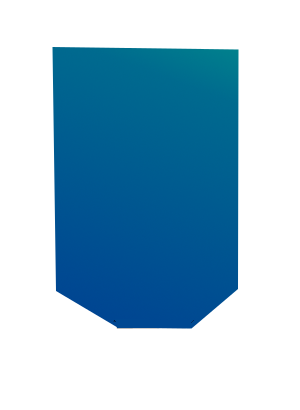
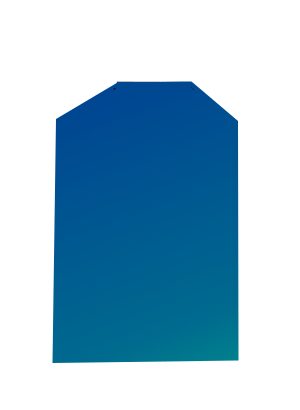
Water flow

Changed region(s): [[0.15, 0.5268, 0.81, 0.9073], [0.15, 0.1171, 0.81, 0.4683]]

diff --git a/src/main.rs b/src/main.rs
@@ -1,4 +1,4 @@
-use raylib::prelude::*;
+use raylib::{ffi::IsKeyDown, prelude::*};
 
 fn get_texture(src: &str, rl: &mut RaylibHandle, thread: &RaylibThread) -> Texture2D {
     let img = Image::load_image(src).expect("Could not load image");
@@ -20,32 +20,37 @@ fn main() {
     let bottle_filled = get_texture("assets/bottle_fill.png", &mut rl, &thread);
 
     let bottle_pos = Vector2::new(75.0, 125.0);
-    let water_consumed = 100.0;
+
+    let mut water_consumed = 100.0;
 
     while !rl.window_should_close() {
         let mut d = rl.begin_drawing(&thread);
 
+        unsafe {
+            if IsKeyDown(KeyboardKey::KEY_DOWN as i32) {
+                water_consumed -= 0.05;
+            } else if IsKeyDown(KeyboardKey::KEY_UP as i32) {
+                water_consumed += 0.05;
+            }
+        }
         d.clear_background(Color::BLACK);
         d.draw_texture(&bg, 0, 0, Color::WHITE);
 
         d.draw_texture_v(&bottle, bottle_pos, Color::WHITE);
-        d.draw_texture_pro(
+
+        d.draw_texture_rec(
             &bottle_filled,
             Rectangle::new(
                 0.0,
-                0.0,
-                bottle_filled.width as f32,
                 bottle_filled.height as f32 - water_consumed,
-            ),
-            Rectangle::new(
-                bottle_pos.x,
-                bottle_pos.y,
                 bottle.width as f32,
-                bottle.height as f32,
+                water_consumed,
             ),
-            bottle_pos,
-            180.0,
+            Vector2::new(
+                bottle_pos.x,
+                bottle_pos.y + (bottle_filled.height as f32 - water_consumed),
+            ),
             Color::WHITE,
-        )
+        );
     }
 }
